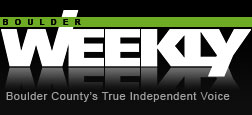
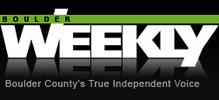
Adding BOB Deals bannder ad to platform

diff --git a/public/stylesheets/screen.css b/public/stylesheets/screen.css
@@ -303,15 +303,15 @@ body.root-controller > footer .content .copyright { color: #dddddd; }
 #forgot_password:hover { color: white; }
 
 body { font-family: Helvetica, Arial, Verdana, sans-serif; font-size: 12px; }
-body .header2 { z-index: 1030; height: 115px; position: fixed; top: 0; width: 100%; background-color: black; min-width: 1476px; }
+body .header2 { z-index: 1030; height: 115px; position: fixed; top: 0; width: 100%; background-color: black; min-width: 1432px; }
 body .header2 .logo-wrap { display: inline; float: left; }
-body .header2 .logo { display: block; text-indent: -119988px; overflow: hidden; text-align: left; background-image: url('/images/boulderweekly.png?1352076065'); background-repeat: no-repeat; background-position: 50% 50%; width: 6553600px; height: 4293656593px; width: 252px; height: 115px; margin-left: 50px; }
-body .header2 .logo-wrap2 { display: inline; float: right; }
-body .header2 .logo2 { display: block; text-indent: -119988px; overflow: hidden; text-align: left; background-image: url('/images/BCE_logo.png?1353104554'); background-repeat: no-repeat; background-position: 50% 50%; width: 400px; height: 115px; width: 400px; height: 115px; margin-right: 50px; }
+body .header2 .logo { display: block; text-indent: -119988px; overflow: hidden; text-align: left; background-image: url('/images/boulderweekly.png?1354405454'); background-repeat: no-repeat; background-position: 50% 50%; width: 219px; height: 100px; width: 252px; height: 115px; margin-left: 50px; }
+body .header2 .logo2 { display: block; text-indent: -119988px; overflow: hidden; text-align: left; background-image: url('/images/BCE_logo.png?1354405436'); background-repeat: no-repeat; background-position: 50% 50%; width: 348px; height: 100px; width: 400px; height: 115px; }
+body .header2 .logo3 { display: block; text-indent: -119988px; overflow: hidden; text-align: left; background-image: url('/images/BOB_Deals.png?1354405415'); background-repeat: no-repeat; background-position: 50% 50%; width: 607px; height: 75px; width: 730px; height: 115px; }
 body > header.boulderheader { background-color: #5c3761; background-repeat: repeat-x; background-image: -khtml-gradient(linear, left top, left bottom, from(#5c3761), to(#442947)); background-image: -moz-linear-gradient(top, #5c3761, #442947); background-image: -ms-linear-gradient(top, #5c3761, #442947); background-image: -webkit-gradient(linear, left top, left bottom, color-stop(0%, #5c3761), color-stop(100%, #442947)); background-image: -webkit-linear-gradient(top, #5c3761, #442947); background-image: -o-linear-gradient(top, #5c3761, #442947); background-image: linear-gradient(top, #5c3761, #442947); color: white; -moz-box-shadow: 0px 0px 5px #8c5494; -webkit-box-shadow: 0px 0px 5px #8c5494; -o-box-shadow: 0px 0px 5px #8c5494; min-width: 1160px; top: 115px; }
 body > header.boulderheader .content { width: 1200px; }
 body > header.boulderheader .content .logo-wrap { display: inline; float: left; width: 190px; }
-body > header.boulderheader .content .logo { display: block; width: 190px; text-indent: -119988px; overflow: hidden; text-align: left; background-image: url('/images/boulderweekly.png?1352076065'); background-repeat: no-repeat; background-position: 50% 50%; width: 6553600px; height: 4293656593px; }
+body > header.boulderheader .content .logo { display: block; width: 190px; text-indent: -119988px; overflow: hidden; text-align: left; background-image: url('/images/boulderweekly.png?1354405454'); background-repeat: no-repeat; background-position: 50% 50%; width: 219px; height: 100px; }
 body > header.boulderheader .content .back { float: left; text-align: right; display: inline-block; padding: 0 0; height: 53px; vertical-align: top; cursor: pointer; white-space: nowrap; }
 body > header.boulderheader .content .back .link { cursor: pointer; font-weight: normal; display: inline-block; overflow: hidden; white-space: nowrap; text-overflow: ellipsis; padding: 0 18px 0; line-height: 53px; vertical-align: top; }
 body > header.boulderheader .content .back .link:hover { color: white; text-decoration: underline; }

diff --git a/app/stylesheets/partners/_boulder.sass b/app/stylesheets/partners/_boulder.sass
@@ -9,29 +9,31 @@ body
     top: 0
     width: 100%
     background-color: #000
-    min-width: 1160px
+    min-width: 1432px
     
     .logo-wrap
       +float('left')
-      //width: 352px
-
+      
     .logo
       display: block 
       +replace-text-with-dimensions('boulderweekly.png')
       width: 252px
       height: 115px
-      margin-left: 50px
-  
-    .logo-wrap2
-      +float('right')
-      //width: 190px
+      margin-left: 50px 
 
     .logo2
       display: block 
       +replace-text-with-dimensions('BCE_logo.png')
       width: 400px
       height: 115px
-      margin-right: 50px
+      //margin-right: 50px
+
+    .logo3
+      display: block 
+      +replace-text-with-dimensions('BOB_Deals.png')
+      width: 730px
+      height: 115px
+      //margin-right: 50px
   
   > header.boulderheader
     background-color: #5C3761
